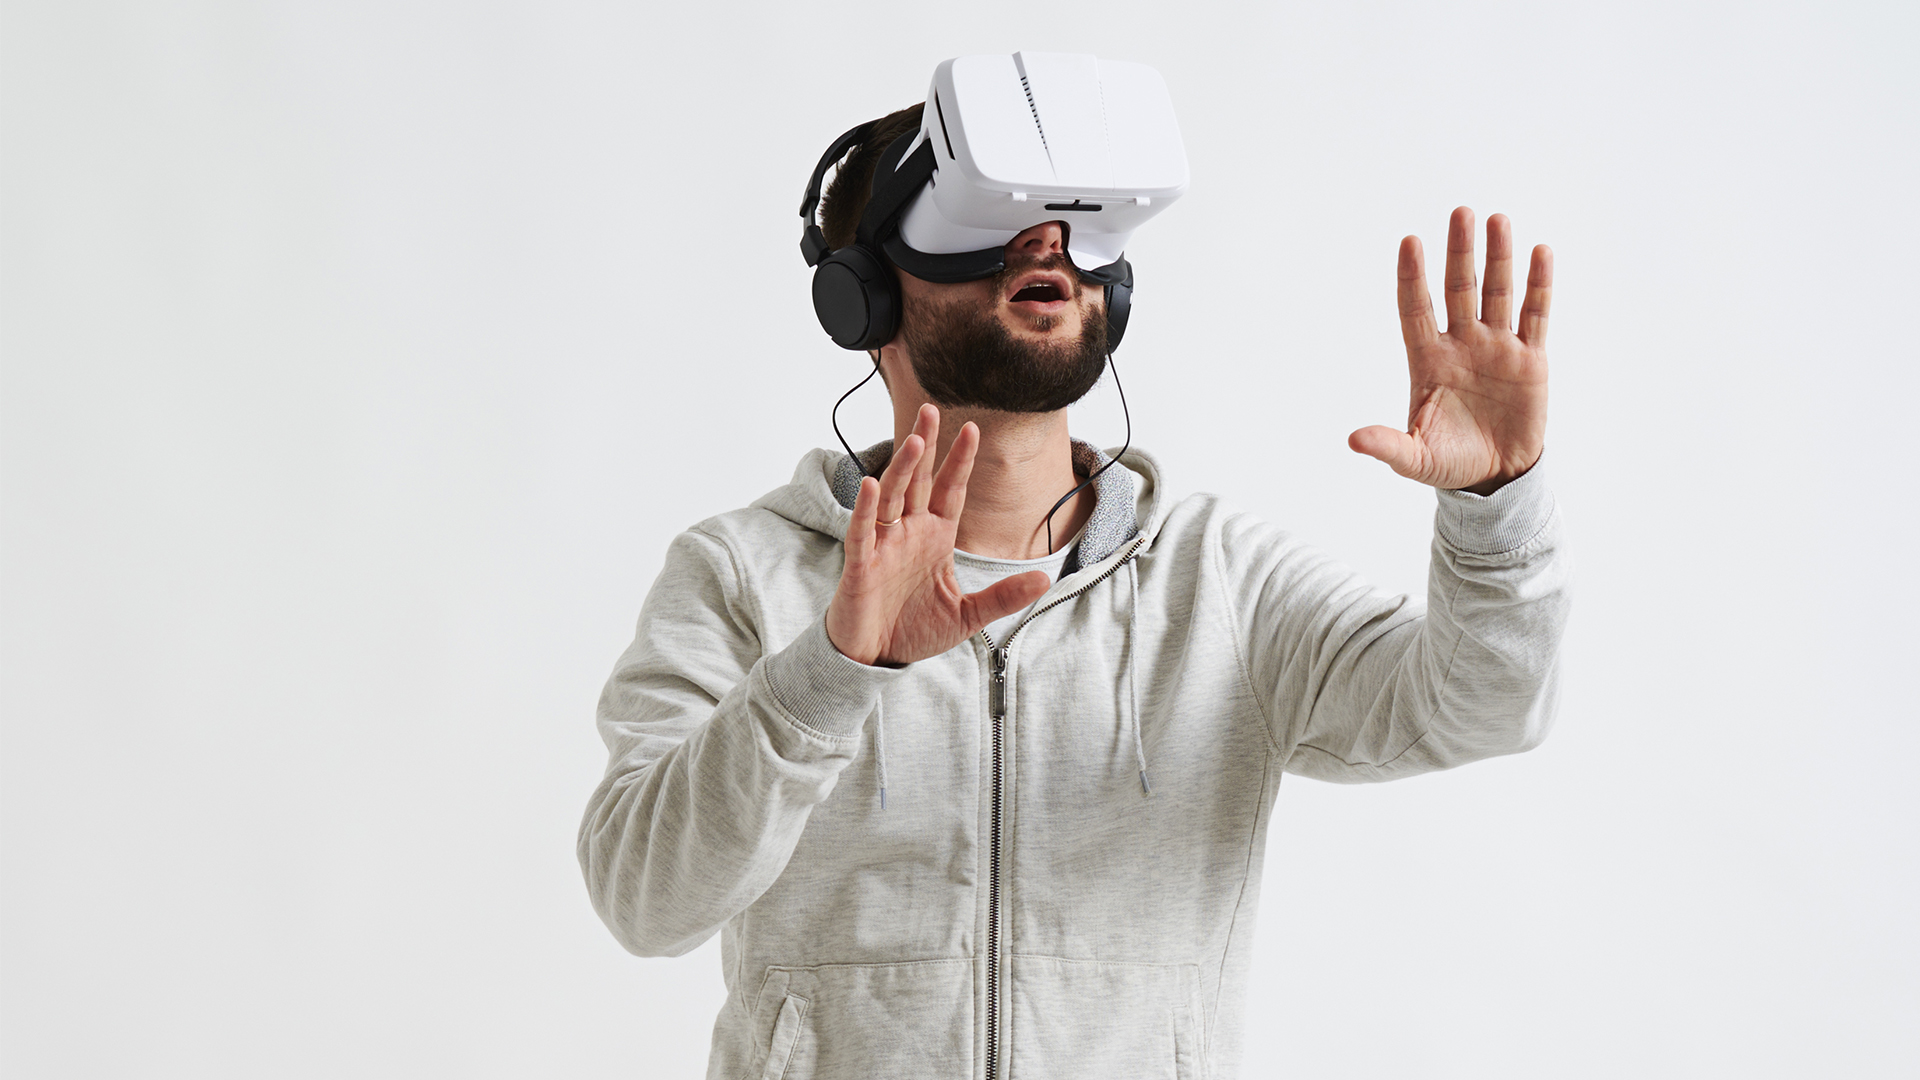
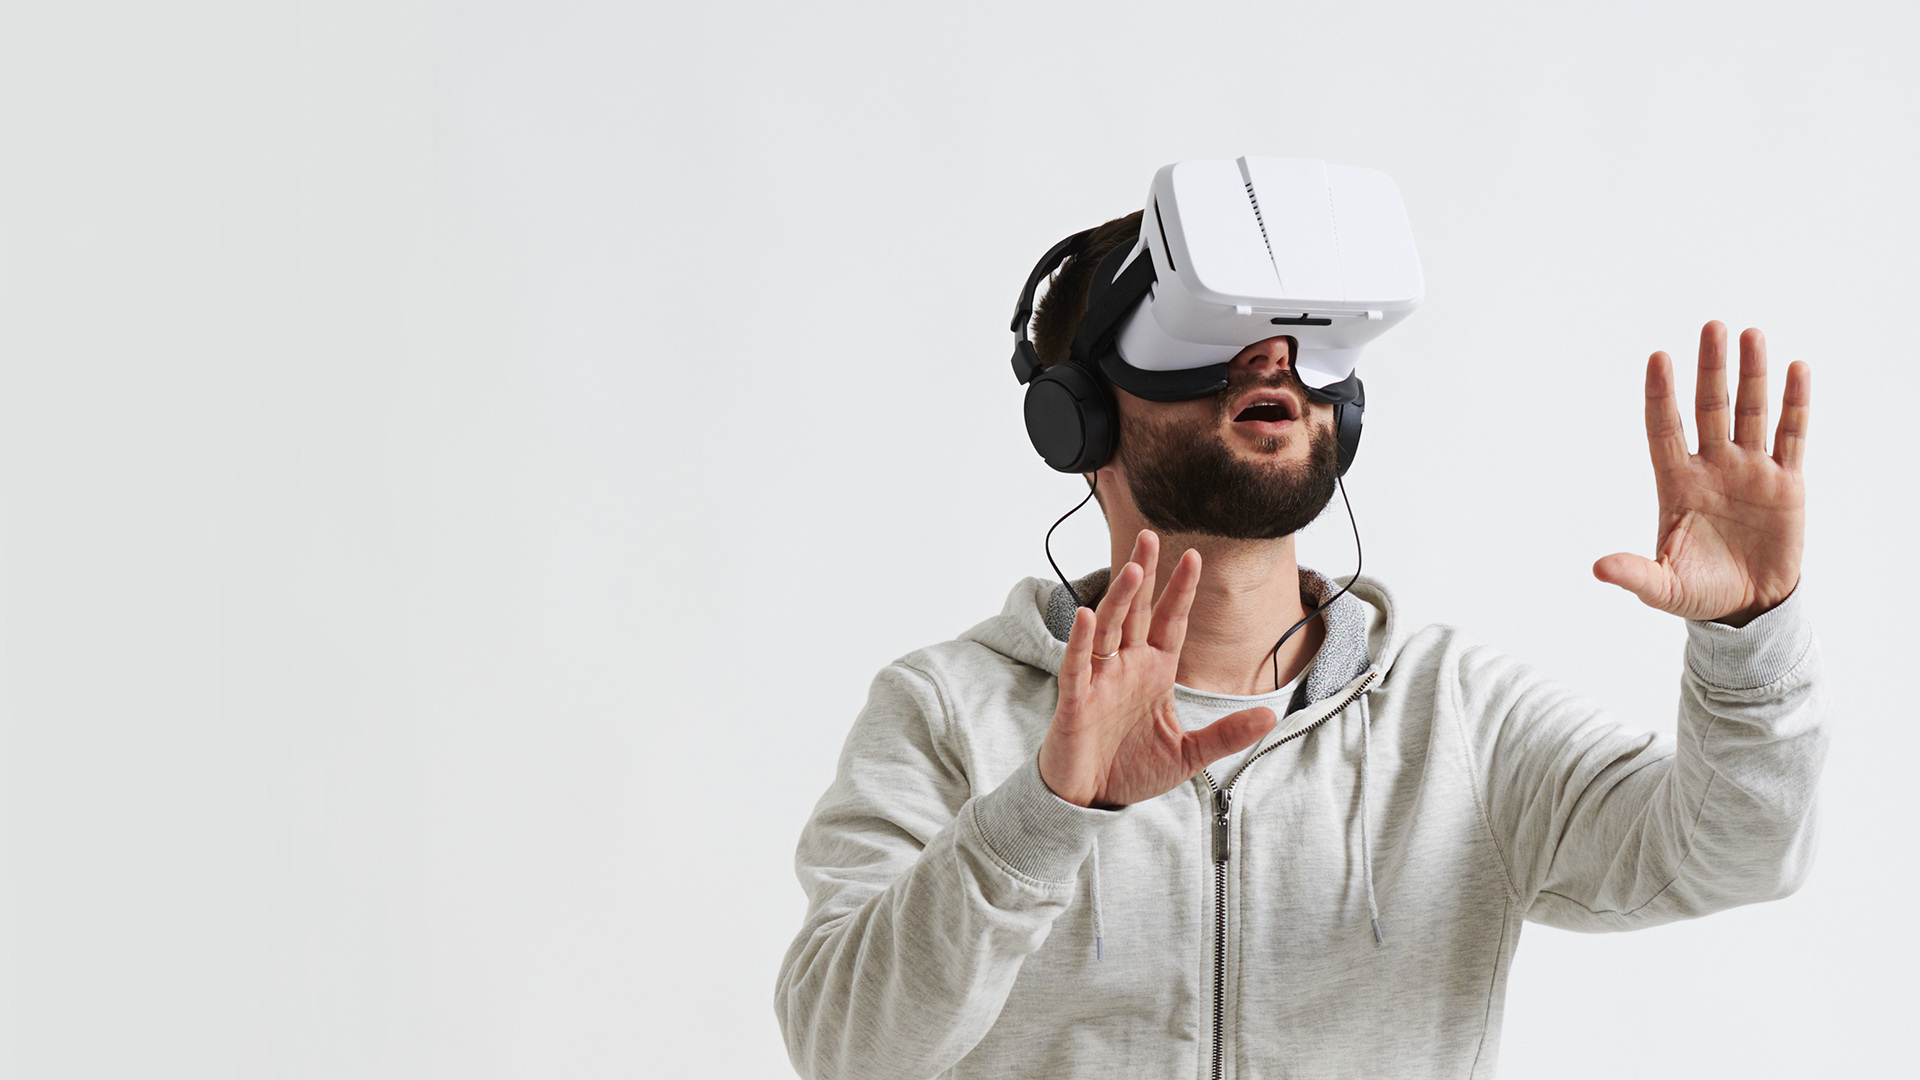
Changed contact.png and bg img

diff --git a/website/css/master.css b/website/css/master.css
@@ -142,10 +142,10 @@ section {
   position: absolute;
   width: 700px;
   font-size: 32px;
-  top: 50%;
-  left: 3%;
-  background-color: white;
-  opacity: 0.9;
+  top: 40%;
+  left: 5%;
+  /*background-color: white;*/
+  opacity: 1;
   padding: 10px;
 }
 
@@ -164,8 +164,10 @@ section {
   height: 81px;
   position: absolute;
   margin: auto;
-  bottom: 6%;
-  right: 10%;
+  bottom: 10%;
+  left: 5%;
+  /*margin-left: 192px;*/
+  opacity: 1;
 }
 
 #arrow {
